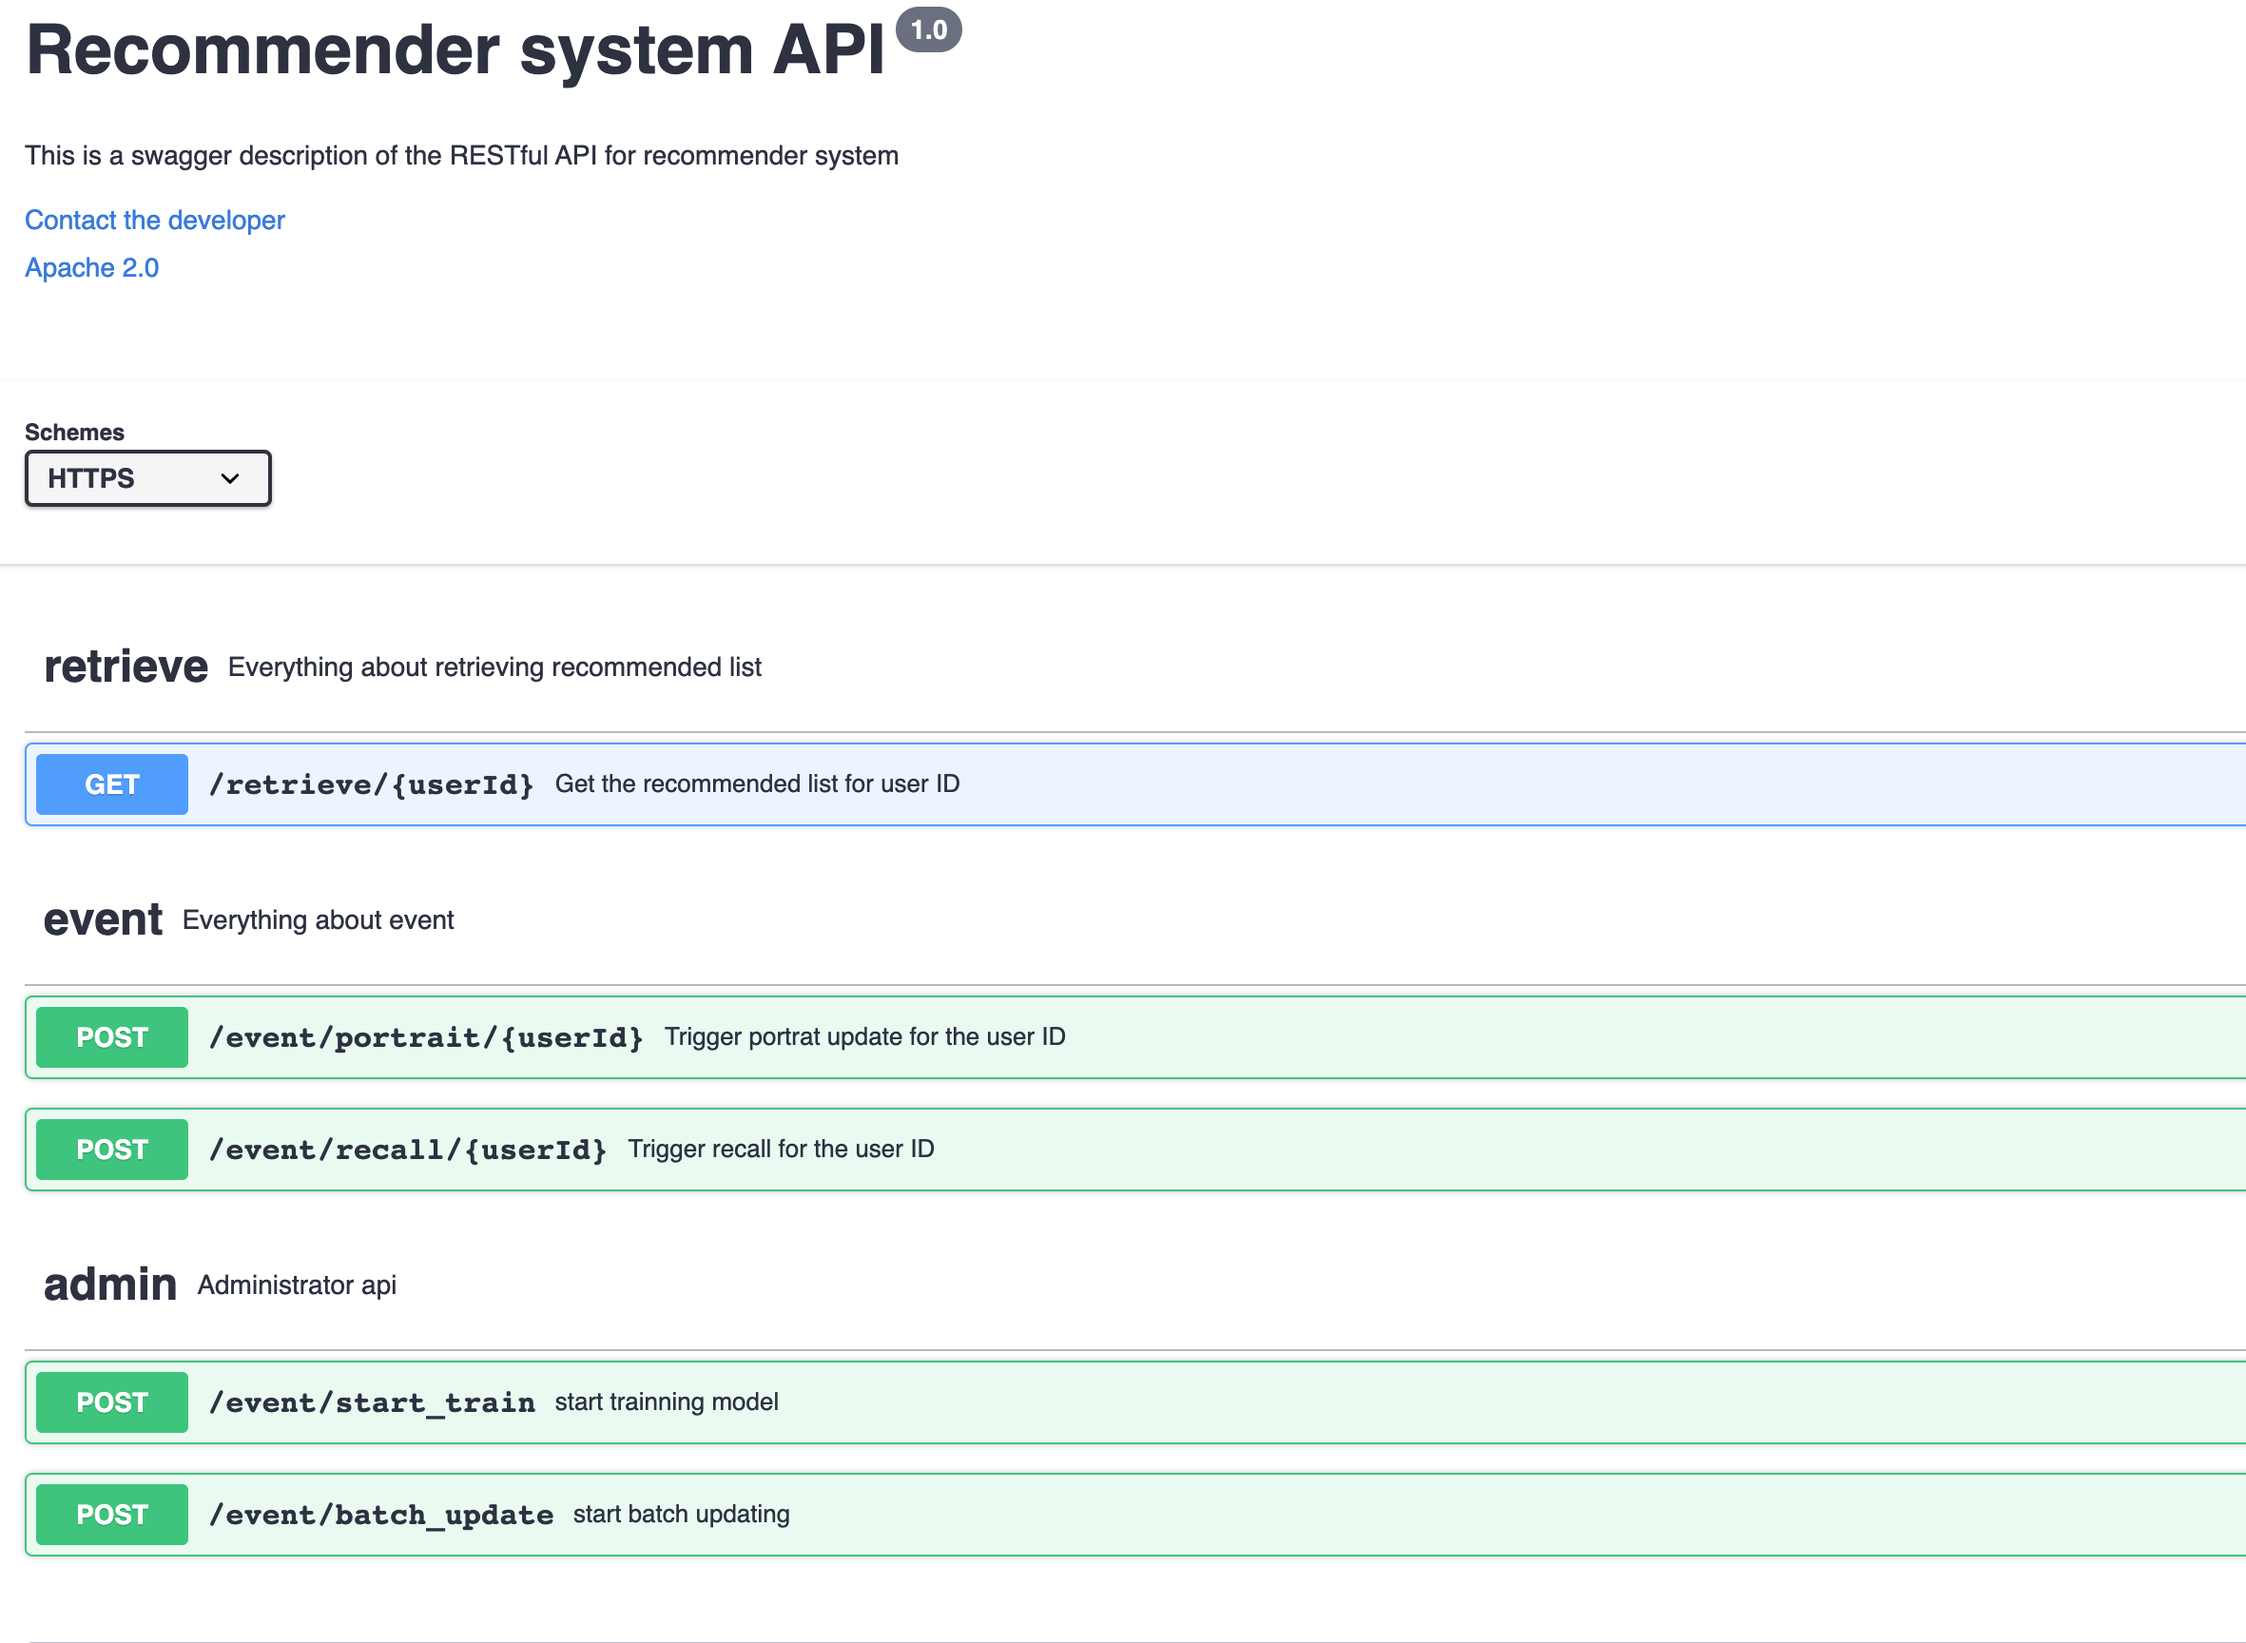
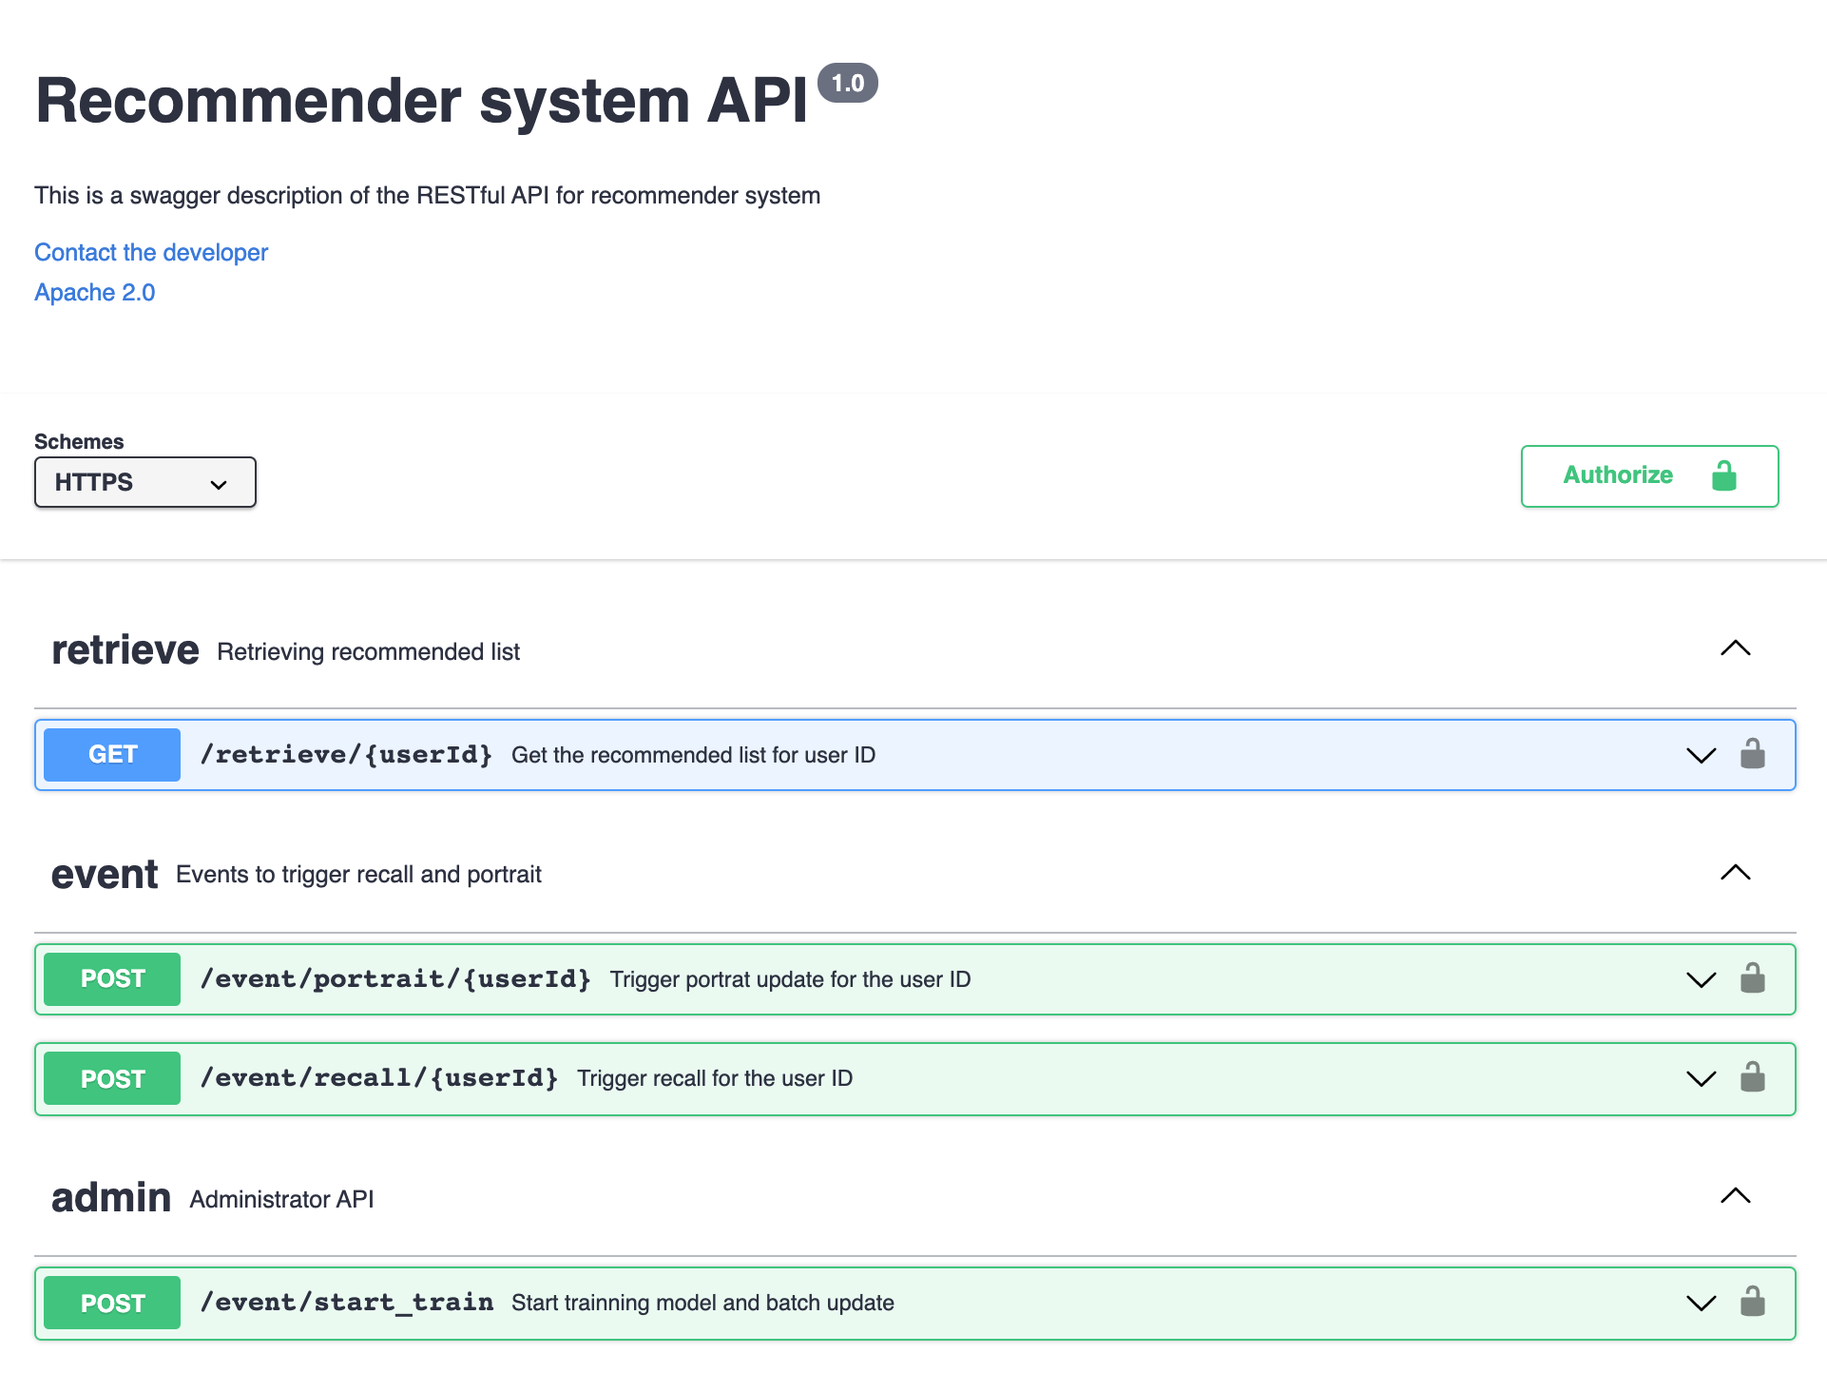
change api

diff --git a/docs/deploy/_index.en.md b/docs/deploy/_index.en.md
@@ -27,9 +27,7 @@ There are three types of API
 
 - admin
    
-   `/event/start_train` - trigger offline training job
-  
-   `/event/batch_update` - trigger offline batch job, re-generating recommended item list for all users
+   `/event/start_train` - trigger offline training job and batch update
 
 
 The swagger description of the API is shown as below:
